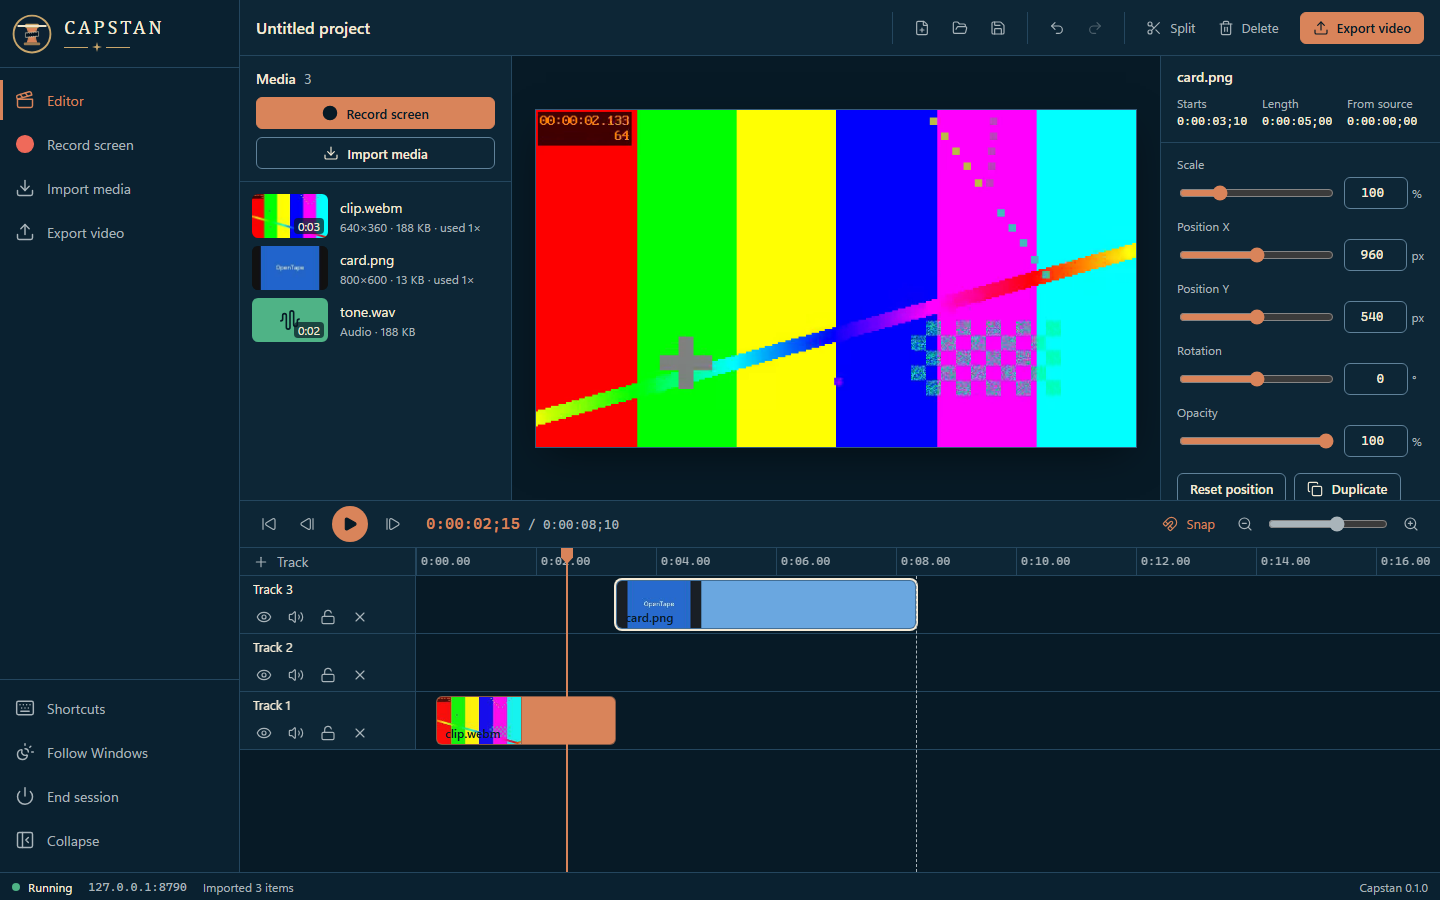
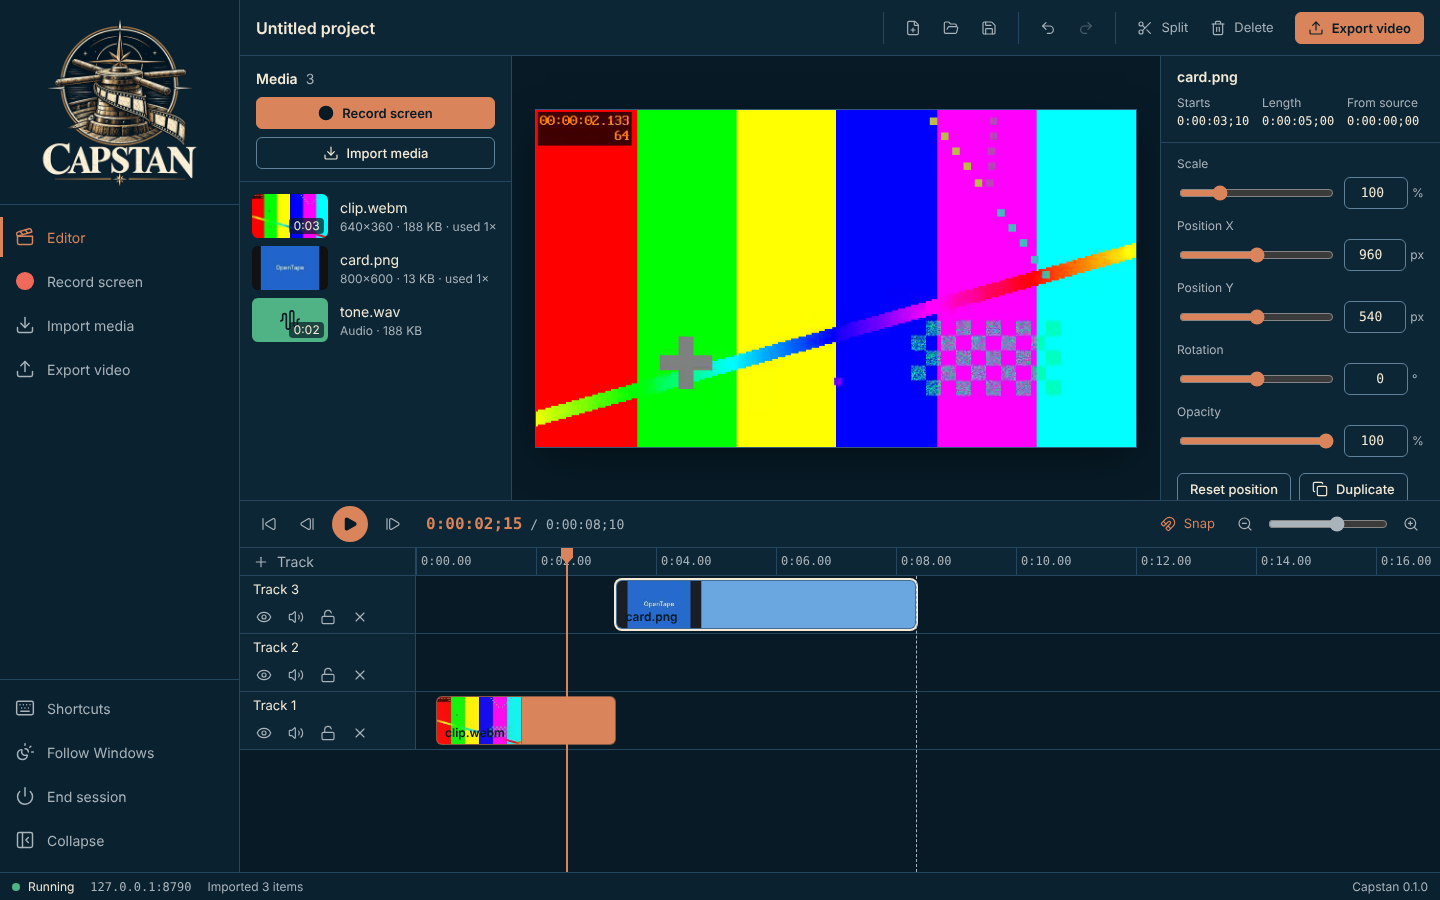
docs: retake README and walkthrough screenshots from the current build
The README pair showed the old sidebar brand (small mark plus text
wordmark); the current sidebar shows the full emblem. The walkthrough
shots were taken without the host (status "Standalone" on port 18767,
no End session button, forced dark theme) and before Export defaulted
to "Same as project"; they are retaken as a launched user sees them.

- docs/screenshots/editor-*.png: retaken with tests/e2e/screenshots.mjs
- docs/assets/walkthrough/*.png: retaken with the new
  tests/e2e/walkthrough.mjs, which also generates its demo media
  (a title card and a recording of Capstan's own welcome screen),
  since the original demo files were never in the repo
- docs/walkthrough/README.md: captions and alt text match the new shots

Claude-Session: https://claude.ai/code/session_011ed4z4RFijKn2Db3KcKVzo

diff --git a/docs/walkthrough/README.md b/docs/walkthrough/README.md
@@ -27,9 +27,9 @@ Select **Import media**, or drop files anywhere in the window. They land in the 
 
 ### 3. Edit on the timeline
 
-Drag clips onto tracks, trim their edges and press **S** to split at the playhead. The demo clip used here is a short recording of Scrimshaw's welcome screen.
+Drag clips onto tracks, trim their edges and press **S** to split at the playhead. The demo clip used here is a short recording of Capstan's own welcome screen.
 
-![Capstan editor with the demo clip of Scrimshaw's welcome screen split at the playhead on track 1, and the title card on track 2.](../assets/walkthrough/03-timeline-edit.png)
+![Capstan editor with the demo clip of Capstan's welcome screen split at the playhead at 0:00:05;00 on track 1, and the title card on track 2.](../assets/walkthrough/03-timeline-edit.png)
 
 ### 4. Adjust a clip
 
@@ -45,10 +45,10 @@ Select a clip. The **Inspector** sets its position, scale, rotation, opacity and
 
 ### 6. Export
 
-**Export video** writes an MP4 (H.264) to your Downloads folder. Choose the size and quality, and whether to include audio.
+**Export video** writes an MP4 (H.264) to your Downloads folder. Choose the size (by default the project's own size) and quality, and whether to include audio.
 
-![Capstan Export video dialog for a 10-second MP4 with 1080p size, Standard quality and Include audio selected.](../assets/walkthrough/06-export-dialog.png)
+![Capstan Export video dialog for a roughly 10-second MP4 with Same as project (1920x1080) size, Standard quality and Include audio selected.](../assets/walkthrough/06-export-dialog.png)
 
 ## About these images
 
-Images live in [`docs/assets/walkthrough/`](../assets/walkthrough/), named `NN-<screen>.png` after the step they belong to. They are 1440x900 at 100% scale in the Night watch (dark) theme, and show demo data only.
+Images live in [`docs/assets/walkthrough/`](../assets/walkthrough/), named `NN-<screen>.png` after the step they belong to. They are 1440x900 at 100% scale in the Night watch (dark) theme, and show demo data only. To retake them from the current build, run `node tests/serve.mjs 8790` and then `node tests/e2e/walkthrough.mjs`, which also makes the demo media.
